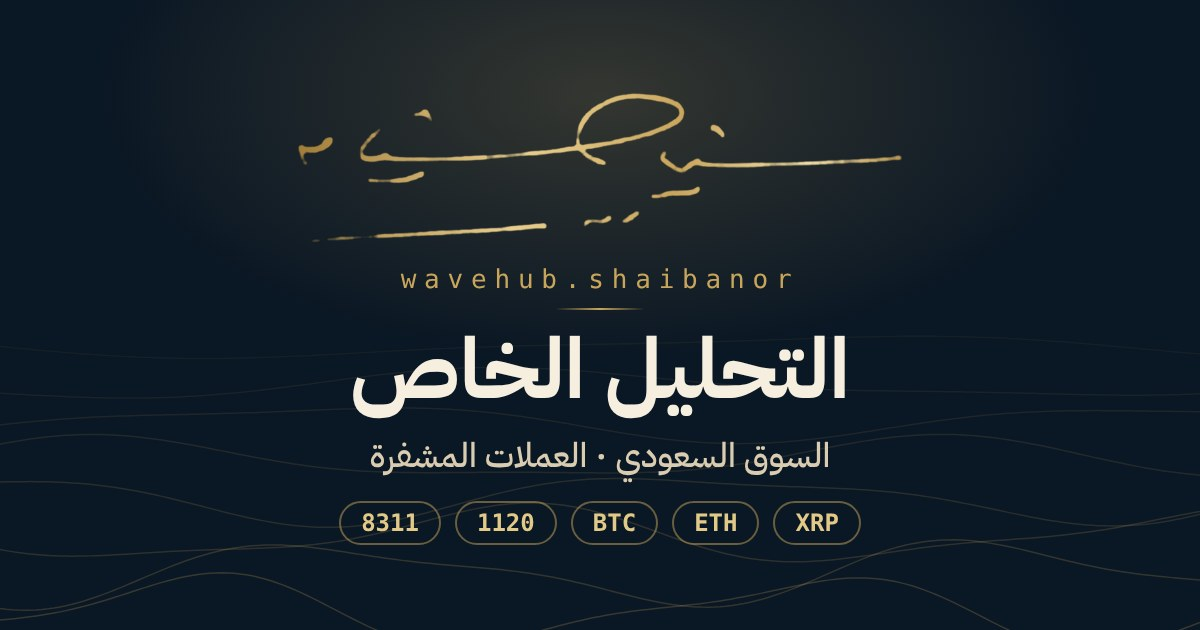
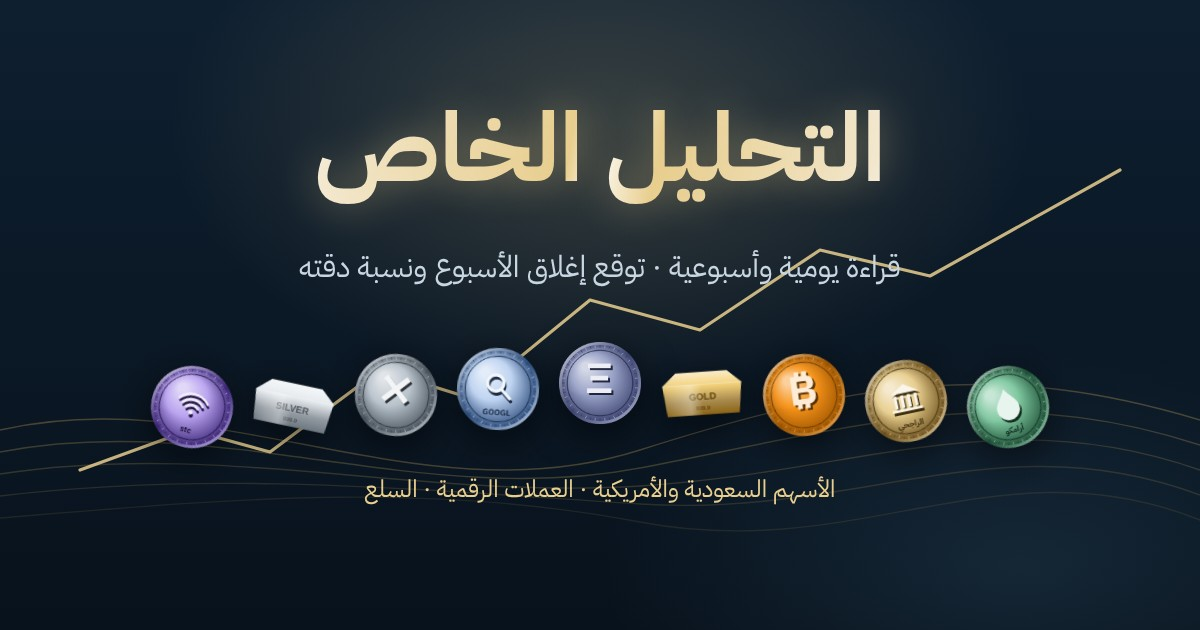
New entrance and link preview; allow search indexing

diff --git a/index.html b/index.html
@@ -3,24 +3,24 @@
 <head>
 <meta charset="utf-8">
 <meta name="viewport" content="width=device-width,initial-scale=1,viewport-fit=cover">
-<meta name="description" content="صفحة خاصة. الدخول برمز.">
-<meta name="robots" content="noindex">
+<meta name="description" content="قراءة يومية وأسبوعية للأسهم السعودية والأمريكية والعملات الرقمية والسلع، مع توقع إغلاق الأسبوع ونسبة دقته، ومنصة شارت وأدوات تحليل.">
+<meta name="robots" content="index,follow">
 <meta http-equiv="Content-Security-Policy" content="default-src 'self'; script-src 'self' 'unsafe-inline' https://cdn.jsdelivr.net; style-src 'self' 'unsafe-inline' https://fonts.googleapis.com; font-src https://fonts.gstatic.com data:; img-src 'self' data:; connect-src 'self' https://raw.githubusercontent.com https://api.binance.com https://api1.binance.com https://data-api.binance.vision; object-src 'none'; base-uri 'none'; form-action 'none'">
 <meta name="referrer" content="strict-origin-when-cross-origin">
 <title>التحليل الخاص · شيبان</title>
 <meta property="og:type" content="website">
 <meta property="og:site_name" content="التحليل الخاص">
 <meta property="og:title" content="التحليل الخاص">
-<meta property="og:description" content="صفحة خاصة. الدخول برمز.">
+<meta property="og:description" content="قراءة يومية وأسبوعية للأسهم والعملات الرقمية والسلع، مع توقع إغلاق الأسبوع ونسبة دقته.">
 <meta property="og:url" content="https://shaibanor.github.io/Wave/">
-<meta property="og:image" content="https://shaibanor.github.io/Wave/og.jpg">
+<meta property="og:image" content="https://shaibanor.github.io/Wave/og.jpg?v=2">
 <meta property="og:image:width" content="1200">
 <meta property="og:image:height" content="630">
-<meta property="og:image:alt" content="التحليل الخاص · wavehub.shaibanor">
+<meta property="og:image:alt" content="التحليل الخاص · الأسهم والعملات والسلع">
 <meta property="og:locale" content="ar_SA">
 <meta name="twitter:card" content="summary_large_image">
 <meta name="twitter:title" content="التحليل الخاص">
-<meta name="twitter:image" content="https://shaibanor.github.io/Wave/og.jpg">
+<meta name="twitter:image" content="https://shaibanor.github.io/Wave/og.jpg?v=2">
 <meta name="theme-color" content="#0A1724">
 <link rel="apple-touch-icon" href="og.jpg">
[1 lines of base64/hex data omitted]
@@ -980,18 +980,36 @@ html.tv-open .wrap{transform:scale(.965);filter:blur(4px) brightness(.7);transit
 .tx-app #cxUndo:disabled{opacity:.35}
 
 html.locked body{overflow:hidden}
-html.locked .wrap{visibility:hidden}
-.gate{position:fixed;inset:0;z-index:50;display:none;align-items:center;justify-content:center;background:#0A1724;padding:24px max(16px,env(safe-area-inset-left,0px)) 24px max(16px,env(safe-area-inset-right,0px))}
+html.locked .wrap,html.locked .bot-fab,html.locked #bgTog{visibility:hidden}
+html.locked #bg3d{display:block!important;filter:saturate(1.25) brightness(1.25)}
+.gate{position:fixed;inset:0;z-index:50;display:none;align-items:center;justify-content:center;background:radial-gradient(70% 60% at 50% 45%,rgba(10,23,36,.25),rgba(10,23,36,.78));overflow:hidden;padding:24px max(16px,env(safe-area-inset-left,0px)) 24px max(16px,env(safe-area-inset-right,0px))}
 html.locked .gate{display:flex}
 .gate::after{content:"";position:absolute;inset:0;background:radial-gradient(80% 60% at 50% 20%,rgba(201,165,92,.16),transparent 60%);pointer-events:none}
-.gate-box{position:relative;z-index:1;width:min(380px,100%);display:flex;flex-direction:column;align-items:center;gap:10px;text-align:center}
+.gate-box{position:relative;z-index:1;width:min(400px,100%);transform:perspective(900px) rotateY(var(--tx,0deg)) rotateX(var(--ty,0deg));transition:transform .4s cubic-bezier(.2,.8,.2,1);display:flex;flex-direction:column;align-items:center;gap:10px;text-align:center}
 .gate-box .sig{width:min(300px,80%)}
-.gate-box h1{margin:4px 0 0;font-family:var(--f-display);font-weight:700;font-size:1.8rem;color:#F6EFE0}
+.gate-box h1{margin:4px 0 0;font-family:var(--f-display);font-weight:700;font-size:clamp(2rem,7vw,2.6rem);color:#F6EFE0;text-shadow:0 0 30px rgba(233,207,143,.45),0 2px 0 rgba(0,0,0,.4);background:linear-gradient(100deg,#F6EFE0 20%,#E9CF8F 45%,#fff 50%,#E9CF8F 55%,#F6EFE0 80%);background-size:250% 100%;-webkit-background-clip:text;background-clip:text;-webkit-text-fill-color:transparent;animation:gShine 5s linear infinite}
+@keyframes gShine{from{background-position:120% 0}to{background-position:-130% 0}}
+.gate-sub{letter-spacing:.18em;color:#E9CF8F!important;opacity:.85}
+.gcubes{position:fixed;left:50%;top:50%;width:0;height:0;transform-style:preserve-3d;perspective:1000px;pointer-events:none;z-index:-1;transition:transform .6s cubic-bezier(.2,.8,.2,1)}
+.gc{position:absolute;left:var(--x);top:var(--y);width:0;height:0;transform-style:preserve-3d;animation:gFloat 7s ease-in-out infinite;animation-delay:var(--dl)}
+.gcr{position:absolute;width:calc(92px*var(--s));height:calc(92px*var(--s));margin:calc(-46px*var(--s)) 0 0 calc(-46px*var(--s));transform-style:preserve-3d;animation:gSpin var(--d) linear infinite;animation-delay:var(--dl)}
+.gcr i{position:absolute;inset:0;display:grid;place-items:center;border:1px solid rgba(233,207,143,.55);border-radius:10%;background:linear-gradient(135deg,rgba(255,255,255,.16),rgba(201,165,92,.05) 45%,rgba(111,179,224,.08));box-shadow:inset 0 0 18px rgba(233,207,143,.25),0 0 22px rgba(201,165,92,.18);backface-visibility:visible}
+.gcr i img{width:58%;height:58%;opacity:.92;filter:drop-shadow(0 4px 10px rgba(0,0,0,.45))}
+.gcr i.f{transform:translateZ(calc(46px*var(--s)))}.gcr i.b{transform:rotateY(180deg) translateZ(calc(46px*var(--s)))}.gcr i.r{transform:rotateY(90deg) translateZ(calc(46px*var(--s)))}
+.gcr i.l{transform:rotateY(-90deg) translateZ(calc(46px*var(--s)))}.gcr i.t{transform:rotateX(90deg) translateZ(calc(46px*var(--s)))}.gcr i.d{transform:rotateX(-90deg) translateZ(calc(46px*var(--s)))}
+@keyframes gSpin{from{transform:rotateX(0) rotateY(0) rotateZ(0)}to{transform:rotateX(360deg) rotateY(720deg) rotateZ(360deg)}}
+@keyframes gFloat{0%,100%{transform:translate3d(0,0,0)}50%{transform:translate3d(0,-14px,40px)}}
+.gate-form{position:relative;padding:3px;border-radius:18px;isolation:isolate}
+.g-ring{position:absolute;inset:0;border-radius:18px;background:conic-gradient(from var(--ga,0deg),#C9A55C,#6FB3E0,#F7931A,#4CC285,#E9CF8F,#C9A55C);z-index:-1;animation:gRing 4s linear infinite;filter:drop-shadow(0 0 12px rgba(233,207,143,.55))}
+@property --ga{syntax:'<angle>';initial-value:0deg;inherits:false}
+@keyframes gRing{to{--ga:360deg}}
+@media (prefers-reduced-motion:reduce){.gcr,.gc,.g-ring,.gate-box h1{animation:none!important}}
 .gate-box p{margin:0;color:#A9B7C4;font-size:.9rem}
-.gate-form{display:flex;gap:8px;width:100%;margin-top:10px}
-.gate-form input{flex:1;min-width:0;font:500 1rem var(--f-num);padding:11px 14px;border-radius:12px;border:1px solid rgba(201,165,92,.45);background:rgba(255,255,255,.05);color:#F6EFE0;direction:ltr;text-align:center;letter-spacing:.12em}
+.gate-form{display:flex;gap:6px;width:100%;margin-top:14px}
+.gate-form input{flex:1;min-width:0;font:600 1.15rem var(--f-num);padding:14px 16px;border-radius:15px;border:0;background:rgba(8,18,28,.82);-webkit-backdrop-filter:blur(10px);backdrop-filter:blur(10px);color:#F6EFE0;direction:ltr;text-align:center;letter-spacing:.12em}
 .gate-form input:focus{outline:2px solid #C9A55C;outline-offset:2px}
-.gate-form button{font:700 .95rem var(--f-body);padding:0 20px;border:0;border-radius:12px;background:linear-gradient(100deg,#B8903F,#E9CF8F,#C9A55C);color:#0A1724;cursor:pointer}
+.gate-form button{display:grid;place-items:center;width:54px;padding:0;border:0;border-radius:15px;background:linear-gradient(100deg,#B8903F,#E9CF8F,#C9A55C);color:#0A1724;cursor:pointer}
+.gate-form button svg{width:22px;height:22px;fill:none;stroke:#0A1724;stroke-width:2.4;stroke-linecap:round;stroke-linejoin:round}
 .gate-err{min-height:1.2em;color:#F08A7E!important;font-size:.85rem!important}
 .gate-box.bad{animation:lockshake .45s}
 </style>
@@ -999,13 +1017,13 @@ html.locked .gate{display:flex}
 <body>
 <div class="gate" id="gate" role="dialog" aria-modal="true" aria-labelledby="gate-t">
   <div class="gate-box" id="gateBox">
-    <div class="sig" role="img" aria-label="شيبان"></div>
-    <p class="handle">wavehub.shaibanor</p>
+    <div class="gcubes" id="gCubes" aria-hidden="true"></div>
     <h1 id="gate-t">التحليل الخاص</h1>
-    <p>اكتب رمز الدخول للمتابعة</p>
+    <p class="gate-sub">الأسهم · العملات · السلع</p>
     <form class="gate-form" id="gateForm" autocomplete="off">
-      <input id="gateIn" type="password" inputmode="text" autocapitalize="off" spellcheck="false" aria-label="رمز الدخول" placeholder="••••••">
-      <button type="submit">دخول</button>
+      <span class="g-ring" aria-hidden="true"></span>
+      <input id="gateIn" type="password" inputmode="text" autocapitalize="off" spellcheck="false" aria-label="الرمز" placeholder="• • • • •">
+      <button type="submit" aria-label="دخول"><svg viewBox="0 0 24 24" aria-hidden="true"><path d="M19 12H5M11 6l-6 6 6 6"/></svg></button>
     </form>
     <p class="gate-err" id="gateErr" aria-live="polite"></p>
   </div>
@@ -3149,12 +3167,18 @@ html.locked .gate{display:flex}
   if(!root.classList.contains('locked'))return;
   const f=document.getElementById('gateForm'),i=document.getElementById('gateIn'),e=document.getElementById('gateErr'),box=document.getElementById('gateBox');
   setTimeout(()=>i.focus(),50);
+  const IDS=['BTC','ETH','GOLD','2222','XRP','SOL','GOOGL','1120','SILVER','BNB','META','BRENT','LTC','7010','ADA','AVGO','TASI','DOGE','V','2010','LINK','SPX','4013','TRX'];
+  (function cubes(){const c=document.getElementById('gCubes');if(!c||!window.EMB)return;const N=innerWidth<600?7:9,P=[[-46,-34],[44,-38],[-58,6],[56,8],[-40,40],[40,44],[0,-52],[-70,-18],[70,-20]];let k=0;
+    c.innerHTML=P.slice(0,N).map((p,n)=>{const f=['f','b','r','l','t','d'].map(x=>`<i class="${x}">${EMB.tag(IDS[(k++)%IDS.length],64)}</i>`).join('');const s=n===6?1.15:.7+(n%3)*.18;
+      return`<div class="gc" style="--x:${p[0]}vmin;--y:${p[1]}vmin;--s:${s};--d:${14+n*3}s;--dl:${-n*1.7}s"><div class="gcr">${f}</div></div>`;}).join('');
+    const box=document.getElementById('gateBox');addEventListener('pointermove',ev=>{if(!root.classList.contains('locked'))return;const x=ev.clientX/innerWidth-.5,y=ev.clientY/innerHeight-.5;c.style.transform=`rotateY(${x*18}deg) rotateX(${-y*14}deg)`;box.style.setProperty('--tx',x*8+'deg');box.style.setProperty('--ty',-y*8+'deg');},{passive:true});})();
+  let ci=0;const cyc=setInterval(()=>{if(!root.classList.contains('locked')){clearInterval(cyc);return;}if(window.EMB)EMB.theme(IDS[ci++%IDS.length]);},2600);setTimeout(()=>{if(window.EMB)EMB.theme(IDS[0]);},300);
   async function sha(t){const b=await crypto.subtle.digest('SHA-256',new TextEncoder().encode(t));return [...new Uint8Array(b)].map(x=>x.toString(16).padStart(2,'0')).join('');}
   f.addEventListener('submit',async ev=>{ev.preventDefault();
-    const v=i.value.trim().toLowerCase();if(!v){e.textContent='اكتب الرمز.';return;}
+    const v=i.value.trim().toLowerCase();if(!v){box.classList.remove('bad');void box.offsetWidth;box.classList.add('bad');return;}
     let h='';try{h=await sha(v);}catch(_){e.textContent='المتصفح لا يدعم الدخول. جرّب متصفحًا آخر.';return;}
-    if(h===H){try{localStorage.setItem('wave-gate',H);}catch(_){}root.classList.remove('locked');window.dispatchEvent(new Event('resize'));}
-    else{e.textContent='الرمز غير صحيح.';i.value='';box.classList.remove('bad');void box.offsetWidth;box.classList.add('bad');}
+    if(h===H){try{localStorage.setItem('wave-gate',H);}catch(_){}root.classList.remove('locked');window.dispatchEvent(new Event('resize'));try{const a=document.querySelector('.cat-g button[aria-pressed="true"]');if(a&&window.EMB)EMB.theme(a.dataset.a);}catch(_){}}
+    else{e.textContent='حاول مرة أخرى';i.value='';box.classList.remove('bad');void box.offsetWidth;box.classList.add('bad');}
   });
 })();
 </script>
@@ -3341,5 +3365,5 @@ html.locked .gate{display:flex}
   window.ADSLOTS={fill};
 })();
 
-</script><script>(function(){var B='7c5ab9d612';try{if(sessionStorage.getItem('wv-upd')===B)return;}catch(e){}fetch('./?nc='+Date.now(),{cache:'no-store'}).then(function(r){return r.text()}).then(function(t){var m=t.match(/var B='([0-9a-f]{10})'/);if(m&&m[1]!==B){try{sessionStorage.setItem('wv-upd',m[1]);}catch(e){}location.replace(location.pathname+'?v='+m[1]+location.hash);}}).catch(function(){});})();</script></body>
+</script><script>(function(){var B='5ac9ad3c60';try{if(sessionStorage.getItem('wv-upd')===B)return;}catch(e){}fetch('./?nc='+Date.now(),{cache:'no-store'}).then(function(r){return r.text()}).then(function(t){var m=t.match(/var B='([0-9a-f]{10})'/);if(m&&m[1]!==B){try{sessionStorage.setItem('wv-upd',m[1]);}catch(e){}location.replace(location.pathname+'?v='+m[1]+location.hash);}}).catch(function(){});})();</script></body>
 </html>
